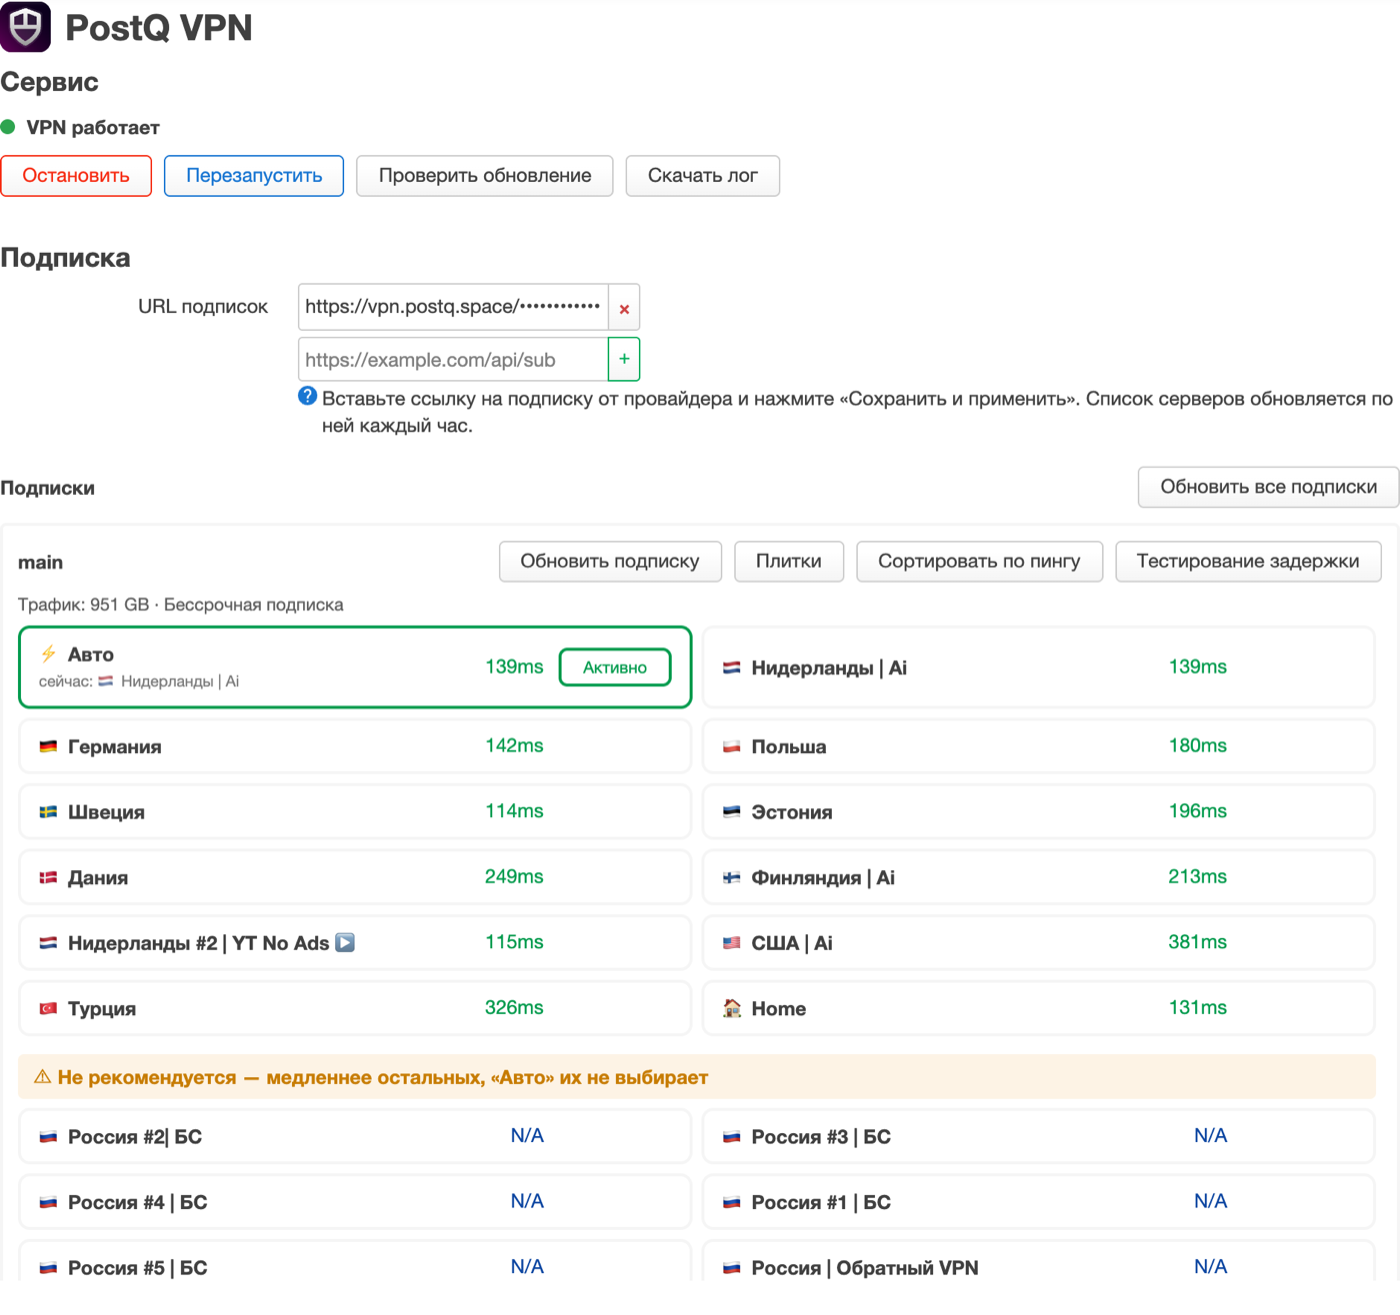
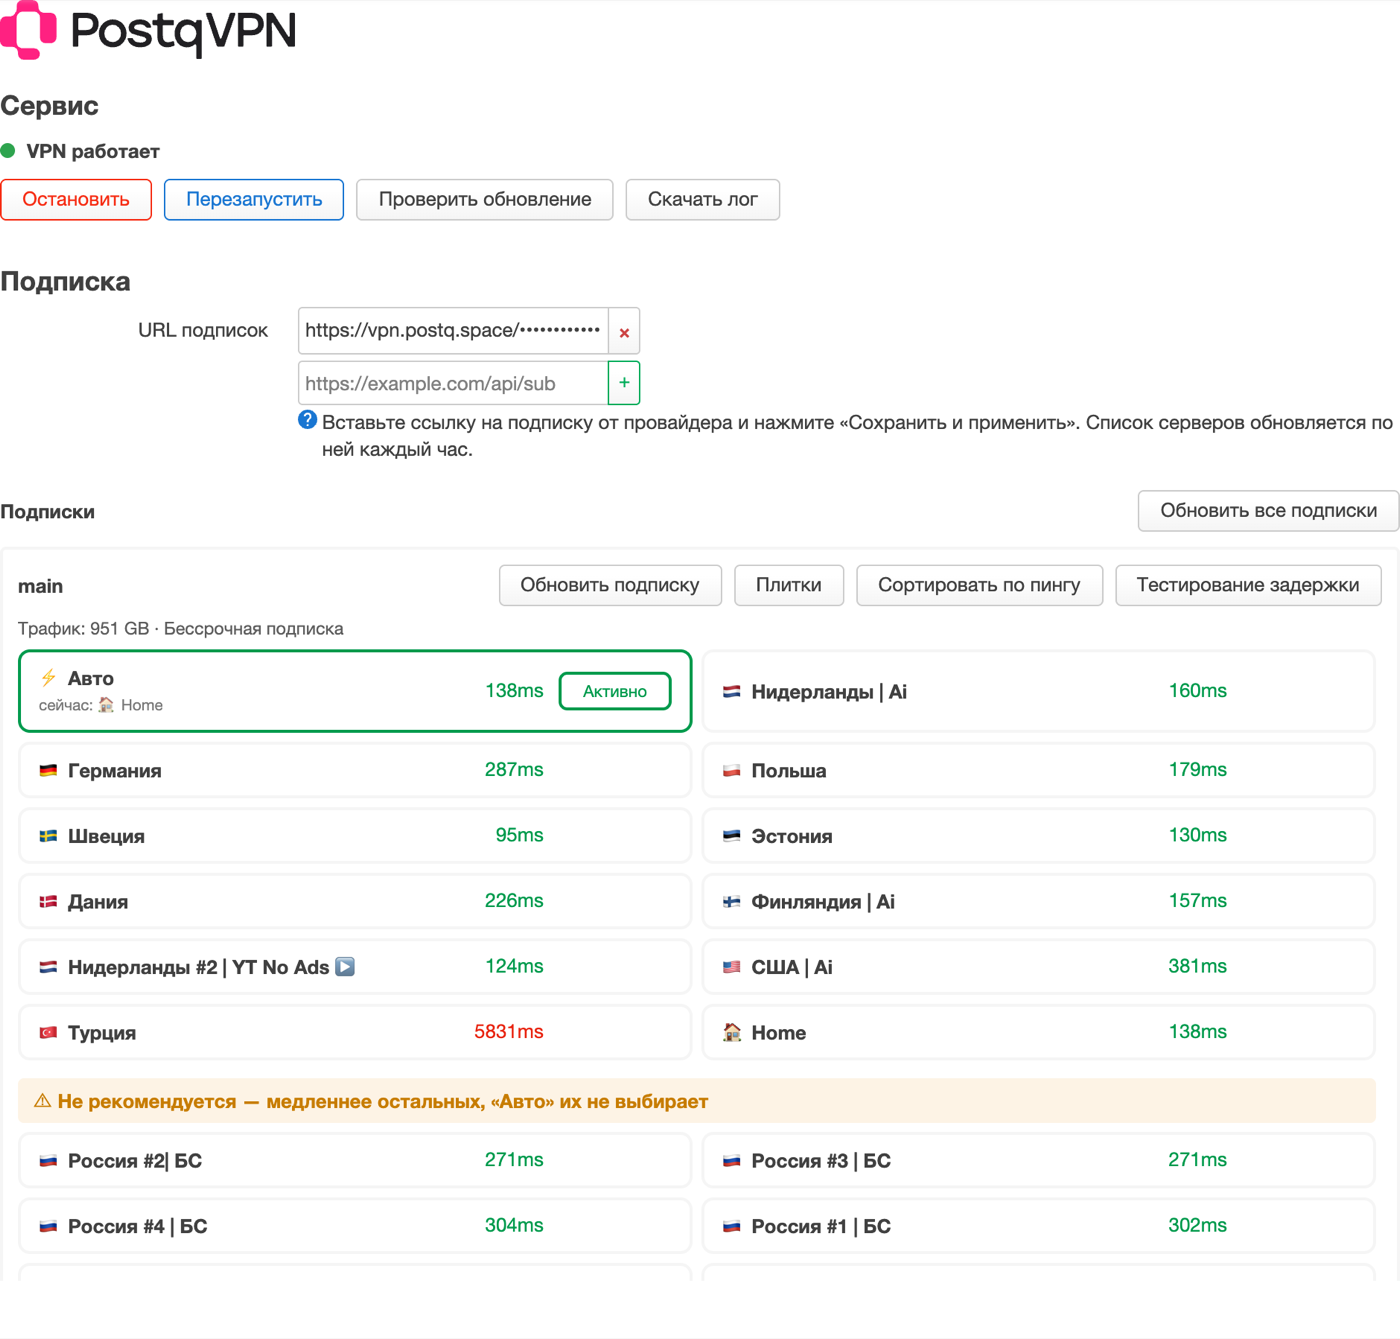
PostQ 1.0.4: PostqVPN wordmark in the light colours of the XKeen UI
- The page header is the PostqVPN logo (pink mark, dark text — the light
  theme of the PostQ XKeen panel) instead of the shield and the title.
- README: the same logo, with the gradient version for GitHub's dark theme;
  screenshot updated.

diff --git a/luci-app-netshift/htdocs/luci-static/resources/view/netshift/control.js b/luci-app-netshift/htdocs/luci-static/resources/view/netshift/control.js
@@ -202,10 +202,10 @@ function injectStyles() {
 .pq-control__dot--on { background: #2ea44f; }
 .pq-control__actions { display: flex; flex-wrap: wrap; gap: 8px; }
 .pq-control__update:empty { display: none; }
-#cbi-netshift > h2 { display: flex; align-items: center; gap: 10px; }
-#cbi-netshift > h2::before {
-  content: ""; flex: none; width: 1.4em; height: 1.4em;
-  background: url("${L.resource("netshift/postq-logo.svg")}") center / contain no-repeat;
+#cbi-netshift > h2 {
+  height: 40px; margin-bottom: 12px; overflow: hidden; color: transparent;
+  font-size: 0; white-space: nowrap;
+  background: url("${L.resource("netshift/postq-logo.svg")}") left center / contain no-repeat;
 }
 `,
     ),

diff --git a/README.md b/README.md
@@ -1,7 +1,13 @@
 <div align="center">
-  <img width="96" height="96" src="docs/icon.png" alt="PostQ VPN">
 
-<h1>PostQ VPN для OpenWrt</h1>
+<h1>
+  <picture>
+    <source media="(prefers-color-scheme: dark)" srcset="docs/logo-dark.svg">
+    <img height="64" src="docs/logo-light.svg" alt="PostqVPN">
+  </picture>
+  <br>
+  для OpenWrt
+</h1>
 
 <p>
   VPN-подписка <a href="https://postq.space">postq vpn</a> прямо на роутере с <b>OpenWrt</b>
